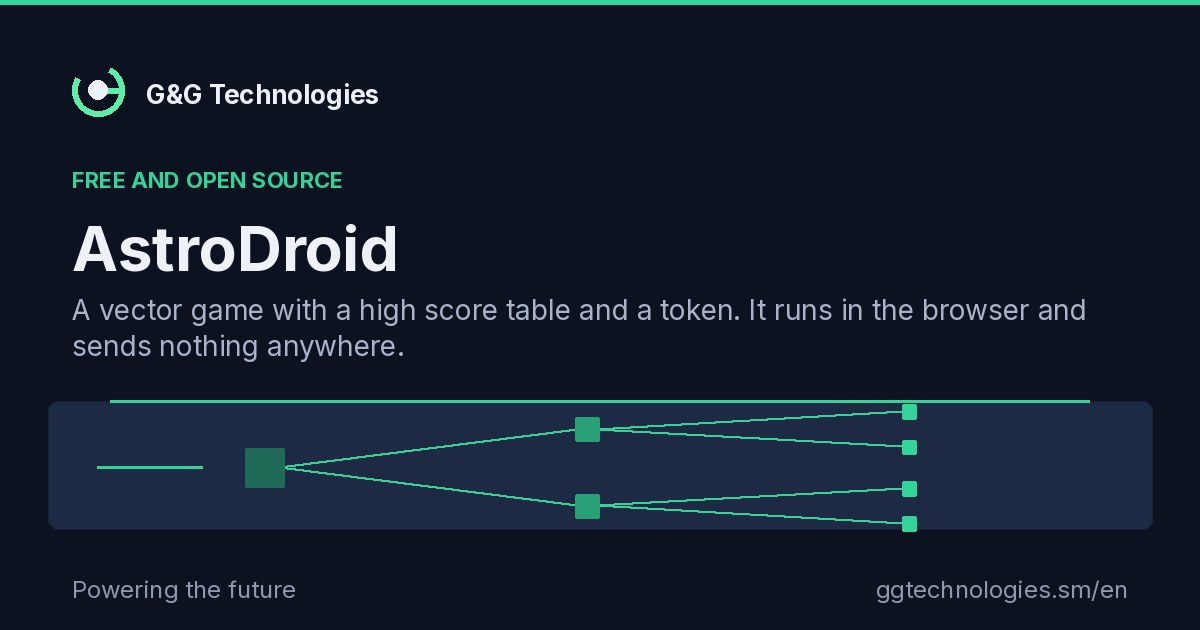
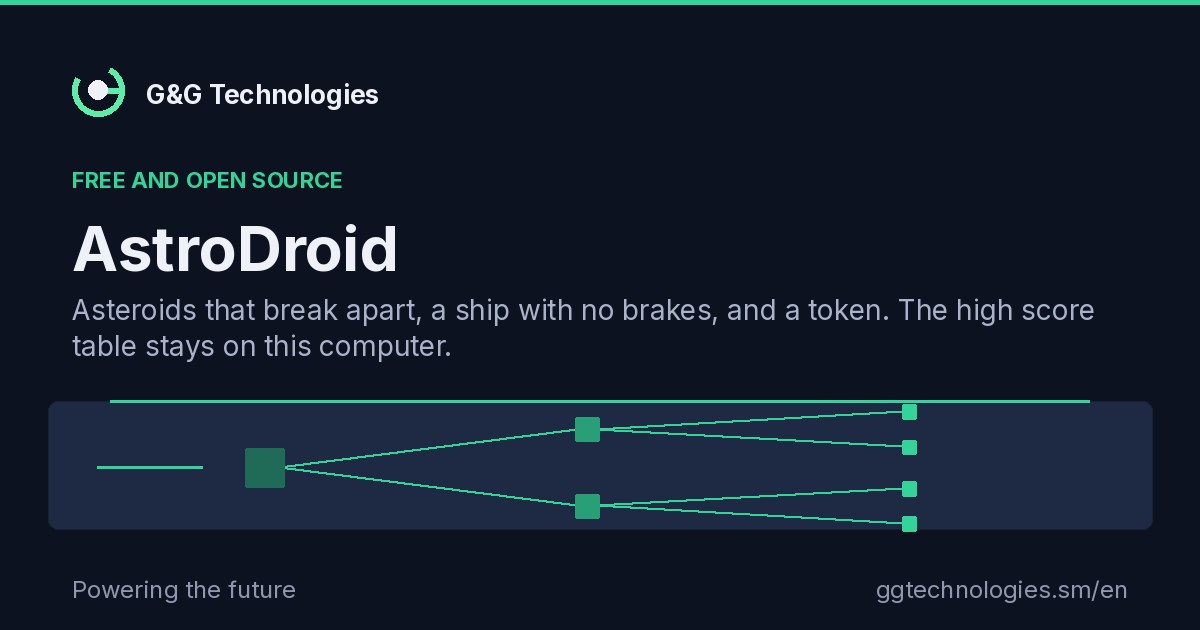
no message

Changed region(s): [[0.0617, 0.4524, 0.925, 0.573]]

diff --git a/en/app/astrodroid/index.html b/en/app/astrodroid/index.html
@@ -4,7 +4,7 @@
   <meta charset="UTF-8">
   <meta name="viewport" content="width=device-width, initial-scale=1.0">
   <title>AstroDroid — a vector game in the browser | G&amp;G Technologies</title>
-  <meta name="description" content="A game of rocks and inertia that runs in the browser, with a high score table and an arcade token. No account, no server.">
+  <meta name="description" content="Asteroids to break apart and a score to beat, in the browser. A token and a high score table as an arcade had them, with no account and no server.">
   <meta name="author" content="G&amp;G Technologies Srl">
   <meta name="robots" content="index, follow, max-image-preview:large">
   <meta name="theme-color" content="#0d1220">
@@ -16,7 +16,7 @@
   <meta property="og:type" content="website">
   <meta property="og:site_name" content="G&amp;G Technologies">
   <meta property="og:title" content="AstroDroid — a vector game in the browser | G&amp;G Technologies">
-  <meta property="og:description" content="A game of rocks and inertia that runs in the browser, with a high score table and an arcade token. No account, no server.">
+  <meta property="og:description" content="Asteroids to break apart and a score to beat, in the browser. A token and a high score table as an arcade had them, with no account and no server.">
   <meta property="og:url" content="https://ggtechnologies.sm/en/app/astrodroid/">
   <meta property="og:image" content="https://ggtechnologies.sm/assets/og-app-astrodroid-en.jpg">
   <meta property="og:image:width" content="1200">
@@ -26,7 +26,7 @@
   <!-- Twitter / X -->
   <meta name="twitter:card" content="summary_large_image">
   <meta name="twitter:title" content="AstroDroid — a vector game in the browser | G&amp;G Technologies">
-  <meta name="twitter:description" content="A game of rocks and inertia that runs in the browser, with a high score table and an arcade token. No account, no server.">
+  <meta name="twitter:description" content="Asteroids to break apart and a score to beat, in the browser. A token and a high score table as an arcade had them, with no account and no server.">
   <meta name="twitter:image" content="https://ggtechnologies.sm/assets/og-app-astrodroid-en.jpg">
   <!-- Favicon -->
   <link rel="apple-touch-icon" sizes="180x180" href="../../../assets/apple-touch-icon.png">
@@ -56,7 +56,7 @@
     "datePublished": "2026-08-13",
     "dateModified": "2026-08-13",
     "license": "https://www.apache.org/licenses/LICENSE-2.0",
-    "description": "A game of rocks and inertia that runs in the browser, with a high score table and an arcade token. No account, no server.",
+    "description": "Asteroids to break apart and a score to beat, in the browser. A token and a high score table as an arcade had them, with no account and no server.",
     "inLanguage": "en",
     "isAccessibleForFree": true,
     "offers": {
@@ -125,8 +125,8 @@
         <div>
           <nav class="breadcrumb" aria-label="Breadcrumb"><ol><li><a href="/en/">Home</a></li><li><a href="/en/app/">Apps</a></li><li aria-current="page">AstroDroid</li></ol></nav>
           <div class="kicker">Free and open source</div>
-          <h1>An arcade that <span class="grad-text">sends nothing</span> to anybody.</h1>
-          <p class="hero-sub">Rocks that break apart, a ship with no brakes, and a token to insert. The high score table stays on this computer, because there is no server to send it to.</p>
+          <h1>One large rock, <span class="grad-text">two smaller ones</span>, and no brakes.</h1>
+          <p class="hero-sub">Thrust once and you keep going. You fire, the rock breaks, and the pieces are worth more than the rock was. The token is free and the table is yours.</p>
           <p class="article-tags"><span class="tag-label">Category</span><a class="tag" href="/en/app/?tag=svago">Games</a></p>
           <div class="hero-ctas">
             <a class="btn btn-primary" href="/app/astrodroid/run/">Open the app</a>
@@ -159,7 +159,7 @@
           <div class="app-list does">
             <h3>What it does</h3>
             <ul class="ticks">
-              <li>Rocks in three sizes: a large one breaks into two medium, a medium into two small.</li>
+              <li>Asteroids in three sizes: a large one breaks into two medium, a medium into two small.</li>
               <li>A ship with inertia: thrust once and you keep going.</li>
               <li>Hyperspace: it drops you elsewhere at once, at a risk that grows with every jump.</li>
               <li>Two saucers, one firing at random and one taking aim.</li>

diff --git a/app/astrodroid/index.html b/app/astrodroid/index.html
@@ -4,7 +4,7 @@
   <meta charset="UTF-8">
   <meta name="viewport" content="width=device-width, initial-scale=1.0">
   <title>AstroDroid — gioco vettoriale nel browser | G&amp;G Technologies</title>
-  <meta name="description" content="Un gioco di rocce e inerzia che gira nel browser, con la classifica e il gettone come in sala giochi. Niente account, niente server.">
+  <meta name="description" content="Asteroidi da spezzare e un punteggio da battere, nel browser. Gettone e classifica come in sala giochi, senza account e senza server.">
   <meta name="author" content="G&amp;G Technologies Srl">
   <meta name="robots" content="index, follow, max-image-preview:large">
   <meta name="theme-color" content="#0d1220">
@@ -16,7 +16,7 @@
   <meta property="og:type" content="website">
   <meta property="og:site_name" content="G&amp;G Technologies">
   <meta property="og:title" content="AstroDroid — gioco vettoriale nel browser | G&amp;G Technologies">
-  <meta property="og:description" content="Un gioco di rocce e inerzia che gira nel browser, con la classifica e il gettone come in sala giochi. Niente account, niente server.">
+  <meta property="og:description" content="Asteroidi da spezzare e un punteggio da battere, nel browser. Gettone e classifica come in sala giochi, senza account e senza server.">
   <meta property="og:url" content="https://ggtechnologies.sm/app/astrodroid/">
   <meta property="og:image" content="https://ggtechnologies.sm/assets/og-app-astrodroid-it.jpg">
   <meta property="og:image:width" content="1200">
@@ -26,7 +26,7 @@
   <!-- Twitter / X -->
   <meta name="twitter:card" content="summary_large_image">
   <meta name="twitter:title" content="AstroDroid — gioco vettoriale nel browser | G&amp;G Technologies">
-  <meta name="twitter:description" content="Un gioco di rocce e inerzia che gira nel browser, con la classifica e il gettone come in sala giochi. Niente account, niente server.">
+  <meta name="twitter:description" content="Asteroidi da spezzare e un punteggio da battere, nel browser. Gettone e classifica come in sala giochi, senza account e senza server.">
   <meta name="twitter:image" content="https://ggtechnologies.sm/assets/og-app-astrodroid-it.jpg">
   <!-- Favicon -->
   <link rel="apple-touch-icon" sizes="180x180" href="../../assets/apple-touch-icon.png">
@@ -56,7 +56,7 @@
     "datePublished": "2026-08-13",
     "dateModified": "2026-08-13",
     "license": "https://www.apache.org/licenses/LICENSE-2.0",
-    "description": "Un gioco di rocce e inerzia che gira nel browser, con la classifica e il gettone come in sala giochi. Niente account, niente server.",
+    "description": "Asteroidi da spezzare e un punteggio da battere, nel browser. Gettone e classifica come in sala giochi, senza account e senza server.",
     "inLanguage": "it",
     "isAccessibleForFree": true,
     "offers": {
@@ -125,8 +125,8 @@
         <div>
           <nav class="breadcrumb" aria-label="Percorso"><ol><li><a href="/">Home</a></li><li><a href="/app/">App</a></li><li aria-current="page">AstroDroid</li></ol></nav>
           <div class="kicker">App gratuita e open source</div>
-          <h1>Una sala giochi che <span class="grad-text">non manda niente</span> a nessuno.</h1>
-          <p class="hero-sub">Rocce che si spezzano, una nave che non frena e un gettone da inserire. La classifica resta su questo computer, perché non c'è un server a cui mandarla.</p>
+          <h1>Una roccia grande, <span class="grad-text">due più piccole</span>, e nessun freno.</h1>
+          <p class="hero-sub">Spingi una volta e continui ad andare. Spari, il masso si spezza, e le schegge valgono più del masso. Il gettone è gratis e la classifica è tua.</p>
           <p class="article-tags"><span class="tag-label">Categoria</span><a class="tag" href="/app/?tag=svago">Svago</a></p>
           <div class="hero-ctas">
             <a class="btn btn-primary" href="/app/astrodroid/run/">Apri l'app</a>
@@ -159,7 +159,7 @@
           <div class="app-list does">
             <h3>Cosa fa</h3>
             <ul class="ticks">
-              <li>Rocce in tre taglie: una grande si spezza in due medie, una media in due piccole.</li>
+              <li>Asteroidi in tre taglie: uno grande si spezza in due medi, uno medio in due piccoli.</li>
               <li>Una nave con l'inerzia: spingi una volta e continui ad andare.</li>
               <li>Iperspazio: ti sposta altrove di colpo, con un rischio che cresce a ogni salto.</li>
               <li>Due dischi volanti, uno che spara a caso e uno che mira.</li>

diff --git a/en/app/index.html b/en/app/index.html
@@ -136,7 +136,7 @@
             <span class="insight-thumb"><svg viewBox="0 0 800 200" aria-hidden="true" focusable="false"><ellipse cx="448" cy="92" rx="288" ry="104" fill="url(#artGlow)"/><rect x="32" y="31" width="736" height="137" rx="10" fill="url(#artPanel)" stroke="var(--border)"/><rect x="74.0" y="30.4" width="652.1" height="2.0" rx="1" fill="url(#artEdge)"/><rect x="65.1" y="101.7" width="69.9" height="2.0" rx="1" fill="url(#artEdge)"/><rect x="192.7" y="61.6" width="188.2" height="41.2" rx="1" fill="url(#artEdge)"/><rect x="192.7" y="102.7" width="188.2" height="41.2" rx="1" fill="url(#artEdge)"/><rect x="156" y="82" width="41.2" height="41.2" rx="2" fill="url(#artEdge)" opacity="0.46"/><rect x="401.4" y="42.7" width="198.4" height="18.9" rx="1" fill="url(#artEdge)"/><rect x="401.4" y="61.6" width="198.4" height="18.9" rx="1" fill="url(#artEdge)"/><rect x="401.4" y="125.0" width="198.4" height="18.9" rx="1" fill="url(#artEdge)"/><rect x="401.4" y="143.9" width="198.4" height="18.9" rx="1" fill="url(#artEdge)"/><rect x="378" y="49" width="25.5" height="25.5" rx="2" fill="url(#artEdge)" opacity="0.73"/><rect x="378" y="131" width="25.5" height="25.5" rx="2" fill="url(#artEdge)" opacity="0.73"/><rect x="598" y="35" width="15.8" height="15.8" rx="2" fill="url(#artEdge)" opacity="1.00"/><rect x="598" y="73" width="15.8" height="15.8" rx="2" fill="url(#artEdge)" opacity="1.00"/><rect x="598" y="117" width="15.8" height="15.8" rx="2" fill="url(#artEdge)" opacity="1.00"/><rect x="598" y="155" width="15.8" height="15.8" rx="2" fill="url(#artEdge)" opacity="1.00"/></svg></span>
             <div class="kicker">Free and open source</div>
             <h3>AstroDroid</h3>
-            <p>A vector game with a high score table and a token. It runs in the browser and sends nothing anywhere.</p>
+            <p>Asteroids that break apart, a ship with no brakes, and a token. The high score table stays on this computer.</p>
             <span class="tag-row"><span class="tag">Games</span></span>
           </a>
         </div>

diff --git a/app/index.html b/app/index.html
@@ -136,7 +136,7 @@
             <span class="insight-thumb"><svg viewBox="0 0 800 200" aria-hidden="true" focusable="false"><ellipse cx="448" cy="92" rx="288" ry="104" fill="url(#artGlow)"/><rect x="32" y="31" width="736" height="137" rx="10" fill="url(#artPanel)" stroke="var(--border)"/><rect x="74.0" y="30.4" width="652.1" height="2.0" rx="1" fill="url(#artEdge)"/><rect x="65.1" y="101.7" width="69.9" height="2.0" rx="1" fill="url(#artEdge)"/><rect x="192.7" y="61.6" width="188.2" height="41.2" rx="1" fill="url(#artEdge)"/><rect x="192.7" y="102.7" width="188.2" height="41.2" rx="1" fill="url(#artEdge)"/><rect x="156" y="82" width="41.2" height="41.2" rx="2" fill="url(#artEdge)" opacity="0.46"/><rect x="401.4" y="42.7" width="198.4" height="18.9" rx="1" fill="url(#artEdge)"/><rect x="401.4" y="61.6" width="198.4" height="18.9" rx="1" fill="url(#artEdge)"/><rect x="401.4" y="125.0" width="198.4" height="18.9" rx="1" fill="url(#artEdge)"/><rect x="401.4" y="143.9" width="198.4" height="18.9" rx="1" fill="url(#artEdge)"/><rect x="378" y="49" width="25.5" height="25.5" rx="2" fill="url(#artEdge)" opacity="0.73"/><rect x="378" y="131" width="25.5" height="25.5" rx="2" fill="url(#artEdge)" opacity="0.73"/><rect x="598" y="35" width="15.8" height="15.8" rx="2" fill="url(#artEdge)" opacity="1.00"/><rect x="598" y="73" width="15.8" height="15.8" rx="2" fill="url(#artEdge)" opacity="1.00"/><rect x="598" y="117" width="15.8" height="15.8" rx="2" fill="url(#artEdge)" opacity="1.00"/><rect x="598" y="155" width="15.8" height="15.8" rx="2" fill="url(#artEdge)" opacity="1.00"/></svg></span>
             <div class="kicker">App gratuita e open source</div>
             <h3>AstroDroid</h3>
-            <p>Gioco vettoriale con classifica e gettone. Gira nel browser e non manda niente a nessuno.</p>
+            <p>Asteroidi che si spezzano, una nave senza freni e un gettone. La classifica resta su questo computer.</p>
             <span class="tag-row"><span class="tag">Svago</span></span>
           </a>
         </div>

diff --git a/app/astrodroid/run/i18n.js b/app/astrodroid/run/i18n.js
@@ -86,7 +86,6 @@ const IT = {
   back: "Indietro",
   backToPage: "Torna alla pagina",
   sourceLabel: "Codice sorgente",
-  demoBadge: "Dimostrazione",
   // The accessibility line, said where it is true instead of in small print. A real-time game is
   // not playable without sight, and pretending otherwise helps nobody.
   a11yNote: "Si gioca interamente da tastiera. È un gioco d'azione in tempo reale: serve vedere "
@@ -169,7 +168,6 @@ const EN = {
   back: "Back",
   backToPage: "Back to the page",
   sourceLabel: "Source code",
-  demoBadge: "Demonstration",
   a11yNote: "It plays entirely from the keyboard. It is a real-time action game: you need to see "
     + "the screen.",
   liveGameOver: "Game over. {score} points, wave {wave}.",

diff --git a/app/astrodroid/run/styles.css b/app/astrodroid/run/styles.css
@@ -59,19 +59,6 @@ body { overflow: hidden; }              /* the field is the page; nothing here s
 
 #field { display: block; width: 100%; height: 100%; }
 
-.badge {
-  position: absolute;
-  top: 12px;
-  right: 14px;
-  font-size: 11px;
-  letter-spacing: 0.09em;
-  text-transform: uppercase;
-  color: var(--faint);
-  border: 1px solid var(--border);
-  border-radius: var(--radius-sm);
-  padding: 3px 8px;
-  background: var(--panel);
-}
 
 /* The panels sit over the field, and the field is dimmed underneath by the renderer rather than by
    a background here. Done in CSS the veil would cover the app bar too, and the bar is not part of

diff --git a/app/astrodroid/run/index.html b/app/astrodroid/run/index.html
@@ -70,8 +70,6 @@
   <div class="stage">
     <canvas id="field" aria-hidden="true"></canvas>
 
-    <span class="badge" id="demoBadge" data-t="demoBadge"></span>
-
     <!-- attract -->
     <section class="panel attract" data-screen="attract">
       <h1 class="title">AstroDroid</h1>

diff --git a/app/astrodroid/run/app.js b/app/astrodroid/run/app.js
@@ -149,7 +149,6 @@ function _show(next) {
   }
   el("hud").hidden = !(next === "playing" || next === "paused");
   el("pads").hidden = !(next === "playing");
-  el("demoBadge").hidden = next !== "attract";
   document.documentElement.dataset.astro = next;
 }
 

diff --git a/_src/apps.py b/_src/apps.py
@@ -381,16 +381,19 @@ APPS = [
             "slug": "app/astrodroid",
             "short": "AstroDroid",
             "title": "AstroDroid — gioco vettoriale nel browser | G&G Technologies",
-            "description": "Un gioco di rocce e inerzia che gira nel browser, con la classifica "
-                           "e il gettone come in sala giochi. Niente account, niente server.",
+            "description": "Asteroidi da spezzare e un punteggio da battere, nel browser. "
+                           "Gettone e classifica come in sala giochi, senza account e senza "
+                           "server.",
             "kicker": "App gratuita e open source",
-            "h1": "Una sala giochi che <span class=\"grad-text\">non manda niente</span> a "
-                  "nessuno.",
-            "lead": "Rocce che si spezzano, una nave che non frena e un gettone da inserire. La "
-                    "classifica resta su questo computer, perché non c'è un server a cui "
-                    "mandarla.",
-            "summary": "Gioco vettoriale con classifica e gettone. Gira nel browser e non manda "
-                       "niente a nessuno.",
+            # Apre con la meccanica, non con il vincolo tecnico: quello che tiene insieme il
+            # catalogo lo dice l'indice, e chi arriva qui vuole sapere che gioco è. La privacy
+            # resta dove è verificabile — nei fatti in breve e nel «cosa non fa».
+            "h1": "Una roccia grande, <span class=\"grad-text\">due più piccole</span>, e "
+                  "nessun freno.",
+            "lead": "Spingi una volta e continui ad andare. Spari, il masso si spezza, e le "
+                    "schegge valgono più del masso. Il gettone è gratis e la classifica è tua.",
+            "summary": "Asteroidi che si spezzano, una nave senza freni e un gettone. La "
+                       "classifica resta su questo computer.",
             "intro_title": "Perché un gioco",
             "intro_h2": "Il vincolo è lo stesso; <span class=\"grad-text\">cambia chi lo "
                         "guarda</span>.",
@@ -409,7 +412,7 @@ APPS = [
             ],
             "does_title": "Cosa fa",
             "does": [
-                "Rocce in tre taglie: una grande si spezza in due medie, una media in due piccole.",
+                "Asteroidi in tre taglie: uno grande si spezza in due medi, uno medio in due piccoli.",
                 "Una nave con l'inerzia: spingi una volta e continui ad andare.",
                 "Iperspazio: ti sposta altrove di colpo, con un rischio che cresce a ogni salto.",
                 "Due dischi volanti, uno che spara a caso e uno che mira.",
@@ -483,15 +486,16 @@ APPS = [
             "slug": "en/app/astrodroid",
             "short": "AstroDroid",
             "title": "AstroDroid — a vector game in the browser | G&G Technologies",
-            "description": "A game of rocks and inertia that runs in the browser, with a high "
-                           "score table and an arcade token. No account, no server.",
+            "description": "Asteroids to break apart and a score to beat, in the browser. A "
+                           "token and a high score table as an arcade had them, with no account "
+                           "and no server.",
             "kicker": "Free and open source",
-            "h1": "An arcade that <span class=\"grad-text\">sends nothing</span> to anybody.",
-            "lead": "Rocks that break apart, a ship with no brakes, and a token to insert. The "
-                    "high score table stays on this computer, because there is no server to send "
-                    "it to.",
-            "summary": "A vector game with a high score table and a token. It runs in the browser "
-                       "and sends nothing anywhere.",
+            "h1": "One large rock, <span class=\"grad-text\">two smaller ones</span>, and no "
+                  "brakes.",
+            "lead": "Thrust once and you keep going. You fire, the rock breaks, and the pieces "
+                    "are worth more than the rock was. The token is free and the table is yours.",
+            "summary": "Asteroids that break apart, a ship with no brakes, and a token. The high "
+                       "score table stays on this computer.",
             "intro_title": "Why a game",
             "intro_h2": "The constraint is the same; <span class=\"grad-text\">the audience "
                         "changes</span>.",
@@ -511,8 +515,8 @@ APPS = [
             ],
             "does_title": "What it does",
             "does": [
-                "Rocks in three sizes: a large one breaks into two medium, a medium into two "
-                "small.",
+                "Asteroids in three sizes: a large one breaks into two medium, a medium into "
+                "two small.",
                 "A ship with inertia: thrust once and you keep going.",
                 "Hyperspace: it drops you elsewhere at once, at a risk that grows with every jump.",
                 "Two saucers, one firing at random and one taking aim.",
